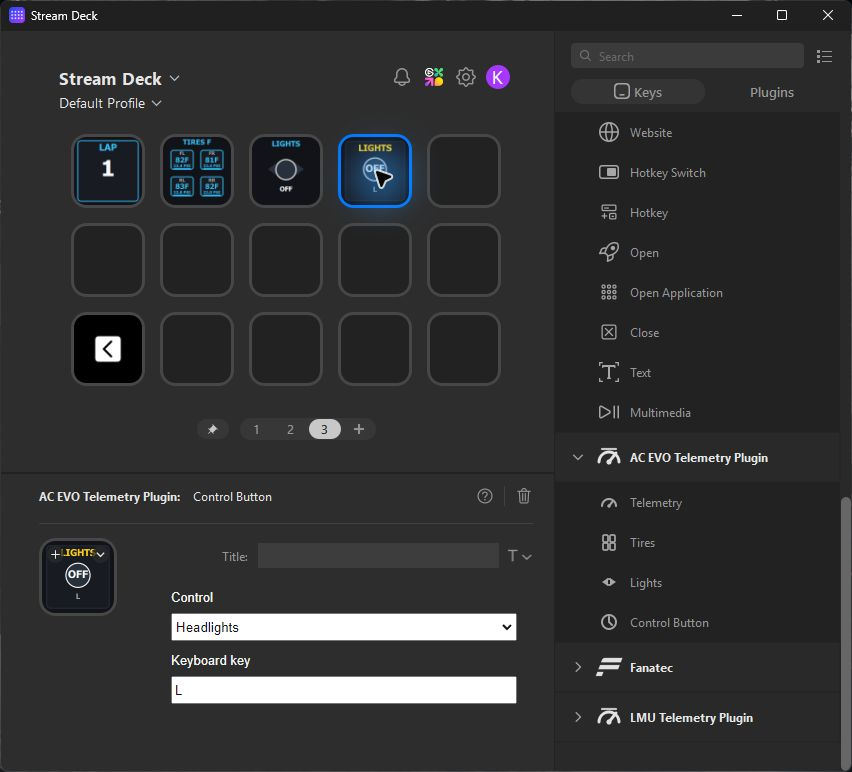
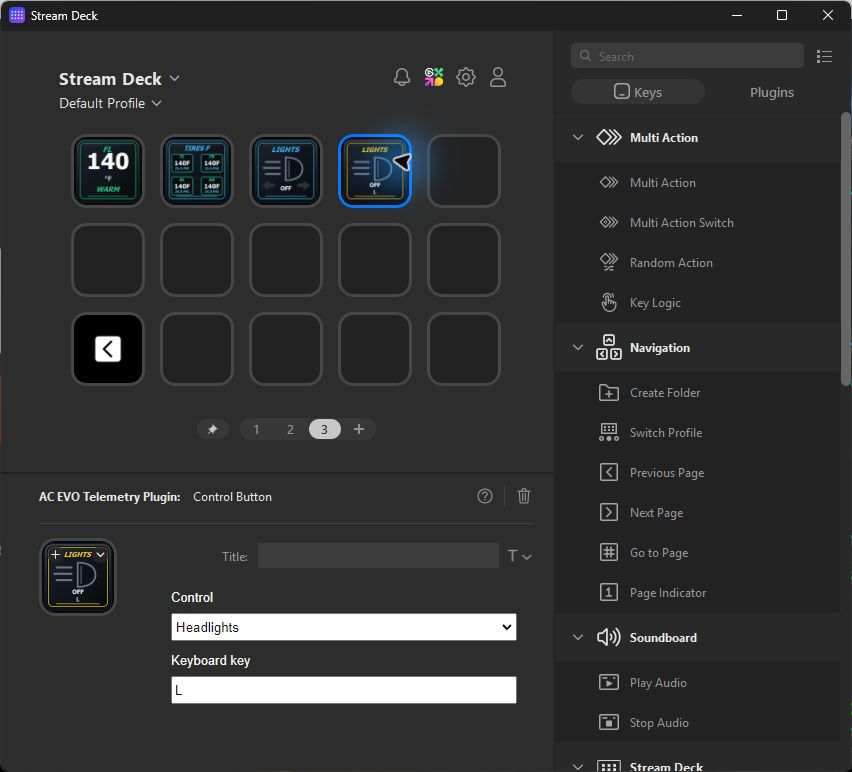
Refresh configuration screenshots from current plugin

diff --git a/index.html b/index.html
@@ -1062,12 +1062,12 @@
           </figure>
         </div>
 
-        <h3 class="configuration-heading">Per-key configuration</h3>
+        <h3 class="configuration-heading" id="configuration">Per-key configuration</h3>
         <div class="settings-grid">
           <figure class="setting-card">
             <svg viewBox="32 470 510 300" role="img" aria-labelledby="telemetry-settings-title" preserveAspectRatio="xMidYMid meet">
-              <title id="telemetry-settings-title">Telemetry property inspector selecting front-left tire temperature and Fahrenheit</title>
-              <image href="assets/telemetry-settings.png?v=20260817c" x="0" y="0" width="852" height="772"></image>
+              <title id="telemetry-settings-title">Telemetry property inspector selecting rear-right tire temperature and Fahrenheit</title>
+              <image href="assets/telemetry-settings.png?v=20260817g" x="0" y="0" width="852" height="772"></image>
             </svg>
             <figcaption>
               <b>Telemetry + Units</b>
@@ -1077,7 +1077,7 @@
           <figure class="setting-card">
             <svg viewBox="32 470 510 300" role="img" aria-labelledby="lights-settings-title" preserveAspectRatio="xMidYMid meet">
               <title id="lights-settings-title">Lights property inspector showing the light-cycle keyboard binding</title>
-              <image href="assets/lights-settings.png?v=20260817c" x="0" y="0" width="852" height="772"></image>
+              <image href="assets/lights-settings.png?v=20260817g" x="0" y="0" width="852" height="772"></image>
             </svg>
             <figcaption>
               <b>Lights</b>
@@ -1087,7 +1087,7 @@
           <figure class="setting-card">
             <svg viewBox="32 470 510 300" role="img" aria-labelledby="control-settings-title" preserveAspectRatio="xMidYMid meet">
               <title id="control-settings-title">Control Button property inspector selecting headlights and keyboard key L</title>
-              <image href="assets/control-settings.png?v=20260817c" x="0" y="0" width="852" height="772"></image>
+              <image href="assets/control-settings.png?v=20260817g" x="0" y="0" width="852" height="772"></image>
             </svg>
             <figcaption>
               <b>Control Button</b>
